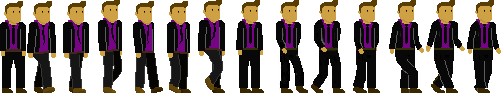
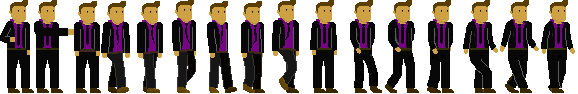
Enemies now chase player(very basic)

diff --git a/Mafia House - Electric Lemon Studios/Classes/Player.cpp b/Mafia House - Electric Lemon Studios/Classes/Player.cpp
@@ -102,15 +102,11 @@ void Player::walk(Input input) {
 	if (input == STOP) {
 		moveDirection = 0;
 		//run standing animation
-		setSpriteFrame(frameCache->getSpriteFrameByName("player/player.png"));
+		setSpriteFrame(standing.animation->getFrames().at(0)->getSpriteFrame());
 		stopActionByTag(WALK);
 		stopActionByTag(MOONWALK);
 		stopX();
 	}
-}
-
-void Player::setSpeed(float speed) {
-	getPhysicsBody()->setVelocityLimit(maxSpeed * speed);//max object speed
 }
 
 void Player::pickUpItem(Node* mainLayer) {
@@ -143,7 +139,7 @@ void Player::dropItem(Node* mainLayer) {
 void Player::beginUseItem() {
 	if (heldItem->getAttackType() == Item::STAB) {
 		heldItem->beginStab();
-		//setSpriteFrame(stabAnimation->getFrames[0]);//setting player sprite to first frame of stab animation
+		setSpriteFrame(stabbing.animation->getFrames().at(0)->getSpriteFrame());//setting player sprite to first frame of stab animation
 	}
 	else if (heldItem->getAttackType() == Item::SWING) {
 		heldItem->beginSwing();
@@ -155,6 +151,7 @@ void Player::useItem() {
 	heldItem->getPhysicsBody()->setEnabled(true);
 	if (heldItem->getAttackType() == Item::STAB) {
 		heldItem->stabSequence();
+		setSpriteFrame(stabbing.animation->getFrames().at(1)->getSpriteFrame());
 		//runAction(Animate::create(stabAnimation));//runs stabbing animation
 	}
 	else if (heldItem->getAttackType() == Item::SWING) {
@@ -254,6 +251,9 @@ Player::PlayerState* Player::PlayerState::update(Player* player, Node* mainLayer
 void Player::PlayerState::exit(Player* player, Node* mainLayer) {
 }
 
+void Player::NeutralState::enter(Player* player, Node* mainLayer, float time) {
+	player->setSpriteFrame(player->standing.animation->getFrames().at(0)->getSpriteFrame());
+}
 //Neutral State:
 Player::PlayerState* Player::NeutralState::handleInput(Player* player, Node* mainLayer, float time, Input input) {
 	if (input == USE_DOOR) {
@@ -318,6 +318,7 @@ Player::PlayerState* Player::AttackState::update(Player* player, Node* mainLayer
 		player->attackPrepareTime = -1.0f;
 	}
 	if (player->attackStartTime != -1.0f && time - player->attackStartTime >= player->heldItem->getAttackTime()) {
+		player->setSpriteFrame(player->stabbing.animation->getFrames().at(0)->getSpriteFrame());
 		player->heldItem->getPhysicsBody()->setEnabled(false);
 		player->attackEndTime = time;
 		player->attackStartTime = -1.0f;
@@ -332,6 +333,7 @@ Player::PlayerState* Player::AttackState::update(Player* player, Node* mainLayer
 Player::PlayerState* Player::AttackState::handleInput(Player* player, Node* mainLayer, float time, Input input) {
 	if ((player->attackRelease == false) && (input == MOVE_LEFT || input == MOVE_RIGHT || input == STOP)) {
 		player->walk(input);
+		player->setSpriteFrame(player->stabbing.animation->getFrames().at(0)->getSpriteFrame());
 	}
 	if (input == USE_RELEASE) {
 		player->attackRelease = true;

diff --git a/Mafia House - Electric Lemon Studios/Classes/Enemy.cpp b/Mafia House - Electric Lemon Studios/Classes/Enemy.cpp
@@ -41,6 +41,12 @@ void Enemy::walk(float time) {
 	}
 }
 
+void Enemy::chase(Node* target) {
+	Vec2 displacement = getPosition() - target->getPosition();
+	Vec2 moveDirection = displacement.getNormalized();
+
+	move(moveDirection * 8);
+}
 
 void Enemy::visionRays(vector<Vec2> *points, Vec2* start)
 {
@@ -95,4 +101,71 @@ void Enemy::visionRays(vector<Vec2> *points, Vec2* start)
 		}
 		didRun = false;
 	}
+}
+
+//Update Checking:
+void Enemy::update(Node* mainLayer, float time, Node* target) {
+	newState = state->update(this, mainLayer, time, target);
+	if (newState != NULL)
+	{
+		state->exit(this, mainLayer);
+
+		if (prevState != NULL && newState != prevState) { delete prevState; }
+		prevState = state;
+		state = newState;
+		newState = NULL;
+
+		state->enter(this, mainLayer, time);
+	}
+}
+
+//Enemy States
+void Enemy::State::enter(Enemy* enemy, Node* mainLayer, float time) {
+}
+Enemy::State* Enemy::State::update(Enemy* enemy, Node* mainLayer, float time, Node* target) {
+	return nullptr;
+}
+void Enemy::State::exit(Enemy* enemy, Node* mainLayer) {
+}
+
+//Default State
+void Enemy::DefaultState::enter(Enemy* enemy, Node* mainLayer, float time) {
+	enemy->setSpeed(1.0f);
+	enemy->setName("enemy");
+}
+Enemy::State* Enemy::DefaultState::update(Enemy* enemy, Node* mainLayer, float time, Node* target) {
+	//checking if enemy spotted player
+	if (enemy->seeingPlayer() == true) {
+		enemy->suspicionLevel += 10;
+	}
+	else {
+		enemy->suspicionLevel--;
+	}
+	//check if an enemy has become alerted
+	if (enemy->suspicionLevel >= 600) {
+		return new AlertState;
+	}
+	enemy->walk(time);
+	return nullptr;
+}
+
+//Alert State
+void Enemy::AlertState::enter(Enemy* enemy, Node* mainLayer, float time) {
+	enemy->setSpeed(1.9f);
+	enemy->setName("enemy_alert");
+}
+Enemy::State* Enemy::AlertState::update(Enemy* enemy, Node* mainLayer, float time, Node* target) {
+	//checking if enemy spotted player
+	if (enemy->seeingPlayer() == true) {
+		enemy->suspicionLevel+= 10;
+	}
+	else {
+		enemy->suspicionLevel--;
+	}
+	//check if an enemy has become unalerted
+	if (enemy->suspicionLevel <= 0) {
+		return new DefaultState;
+	}
+	enemy->chase(target);
+	return nullptr;
 }

diff --git a/Mafia House - Electric Lemon Studios/Classes/Level.cpp b/Mafia House - Electric Lemon Studios/Classes/Level.cpp
@@ -56,6 +56,10 @@ void Level::update(float deltaTime){
 	//updating time
 	gameTime += deltaTime;
 
+	if (player->caught == true){
+		resetLevel();
+	}
+
 	//for drawing vision rays
 	if (visionRays)
 	{
@@ -68,7 +72,7 @@ void Level::update(float deltaTime){
 	vector<Vec2> points;
 	Vec2 start;
 	for (int i = 0; i < enemies.size(); i++) {
-		if (enemyHit != -1) {
+		if (enemyHit != -1) {//temporary
 			if (enemies[i]->getTag() == enemyHit) {
 				//enemies[i]->kill();
 				mainLayer->removeChild(enemies[i]);
@@ -77,8 +81,6 @@ void Level::update(float deltaTime){
 				continue;
 			}
 		}
-		//enemies[i]->update(mainLayer, gameTime);
-		enemies[i]->walk(gameTime);
 		//enemy vision:
 		enemies[i]->visionRays(&points, &start);
 		//drawing vision rays
@@ -88,14 +90,7 @@ void Level::update(float deltaTime){
 		}
 		points.clear();
 
-		//checking if enemy spotted player
-		if (enemies[i]->seeingPlayer() == true) {
-			enemies[i]->suspicionLevel++;
-		}
-		//check if an enemy has become alerted
-		if (enemies[i]->suspicionLevel >= 100) {
-			resetLevel();
-		}
+		enemies[i]->update(mainLayer, gameTime, player);
 	}
 	addChild(visionRays);
 
@@ -190,6 +185,20 @@ bool Level::onContactPreSolve(PhysicsContact &contact, PhysicsContactPreSolve & 
 				//return true;
 				//solve.setRestitution(0.0f);
 				return false;
+			}
+			else {
+				CCLOG("YOU AVOIDED DETECTION");
+				return false;
+			}
+		}
+		// check if player has collided with an enemy
+		if ((a->getName() == "player" && b->getName() == "enemy_alert") || (a->getName() == "enemy_alert" && b->getName() == "player"))
+		{
+			if (player->hidden != true) {
+				CCLOG("YOU TOUCHED AN ENEMY");
+				player->caught = true;
+				solve.setRestitution(0.0f);
+				return true;
 			}
 			else {
 				CCLOG("YOU AVOIDED DETECTION");

diff --git a/Mafia House - Electric Lemon Studios/Classes/Player.h b/Mafia House - Electric Lemon Studios/Classes/Player.h
@@ -26,7 +26,7 @@ public:
 	~Player();
 	CREATE_SPRITE_FUNC(Player, "player.png");
 	CREATE_WITH_FRAME(Player);
-	CREATE_WITH_FRAME_NAME(Player, "player/player.png");
+	CREATE_WITH_FRAME_NAME(Player, "player/stand/001.png");
 	void initObject(Vec2 startPos = Vec2(0, 0));
 
 	void initAnimations();
@@ -41,7 +41,6 @@ public:
 	void resetActionChecks();//resets variables used to track what objects/items player will interact with/use
 
 	void walk(Input input);
-	void setSpeed(float speed);
 
 	void pickUpItem(Node* mainLayer);
 	void dropItem(Node* mainLayer);
@@ -67,6 +66,7 @@ public:
 	Item* heldItem = NULL;//for using held item
 
 	bool hidden = false;
+	bool caught = false;
 
 	enum Profile {
 		STAND,
@@ -85,6 +85,7 @@ private:
 
 	class NeutralState : public PlayerState {
 	public:
+		void enter(Player* player, Node* mainLayer, float time);
 		PlayerState* handleInput(Player* player, Node* MainLayer, float time, Input input);
 	};
 
@@ -116,12 +117,12 @@ private:
 	PlayerState* prevState = NULL;
 
 	//animations:
-	//GameAnimation standAnimation;
+	GameAnimation standing = GameAnimation(STAND, "player/stand/%03d.png", 1, 10 FRAMES);
 	GameAnimation walking = GameAnimation(WALK, "player/walk/%03d.png", 6, 10 FRAMES);
 	GameAnimation moonwalking = GameAnimation(MOONWALK, "player/walk2/%03d.png", 7, 8 FRAMES);
 	//GameAnimation crouchAnimation;
 	//GameAnimation crawlAnimation;
-	//GameAnimation stabAnimation;
+	GameAnimation stabbing = GameAnimation(WALK, "player/stab/%03d.png", 2, 10 FRAMES);;
 	//GameAnimation swingAnimation;
 	//GameAnimation readyThrowAnimation;
 	//GameAnimation throwAnimation;

diff --git a/Mafia House - Electric Lemon Studios/Classes/Enemy.h b/Mafia House - Electric Lemon Studios/Classes/Enemy.h
@@ -11,15 +11,43 @@ public:
 
 	void initObject(Vec2 startPos = Vec2(0,0));
 
+	void update(Node* mainLayer, float time, Node* target);
+
 	void walk(float time);
+
+	void chase(Node* target);
 
 	void visionRays(vector<Vec2> *points, Vec2* start);//casts a bunch of rays; the enemies vision cone
 
 	bool seeingPlayer() { return playerInVision; }
 
-	int suspicionLevel = 0;//100 is max
+	int suspicionLevel = 0;//1000 is max
 
 protected:
+	class State {
+	public:
+		virtual ~State() {}
+		virtual void enter(Enemy* enemy, Node* mainLayer, float time);
+		virtual State* update(Enemy* enemy, Node* mainLayer, float time, Node* target);
+		virtual void exit(Enemy* enemy, Node* mainLayer);
+	};
+	class DefaultState : public State {
+	public:
+		void enter(Enemy* enemy, Node* mainLayer, float time);
+		State* update(Enemy* enemy, Node* mainLayer, float time, Node* target);
+		//void exit(Enemy* enemy, Node* mainLayer);
+	};
+	class AlertState : public State {
+	public:
+		void enter(Enemy* enemy, Node* mainLayer, float time);
+		State * update(Enemy* enemy, Node* mainLayer, float time, Node* target);
+		//void exit(Enemy* enemy, Node* mainLayer);
+	};
+
+	State* state = new DefaultState;
+	State* newState = NULL;
+	State* prevState = NULL;
+
 	//Stuff for Vision Fields:
 	bool didRun;
 	int visionDegrees = 65;//width of angle of vision

diff --git a/Mafia House - Electric Lemon Studios/Classes/Item.cpp b/Mafia House - Electric Lemon Studios/Classes/Item.cpp
@@ -76,7 +76,8 @@ void Item::initDroppedItem(Vec2 pos, bool flip) {
 }
 
 void Item::beginStab() {
-	setPosition(Vec2(10, 45));
+	setPosition(Vec2(10, 55));
+	this->setRotation(45);
 	//auto prepare = MoveBy::create(5 FRAMES, Vec2(-12, 6));
 	//runAction(prepare);
 }
@@ -90,9 +91,9 @@ void Item::beginSwing() {
 }
 
 void Item::stabSequence() {
-	auto move = MoveBy::create(1 FRAMES, Vec2(25, 0));
+	auto move = MoveBy::create(1 FRAMES, Vec2(25, 6));
 	auto hold = MoveBy::create(6 FRAMES, Vec2(0, 0));
-	auto moveback = MoveBy::create(1 FRAMES, Vec2(-25, 0));
+	auto moveback = MoveBy::create(1 FRAMES, Vec2(-25, -6));
 	auto sequence = Sequence::create(move, hold, moveback, NULL);
 	runAction(sequence);
 }

diff --git a/Mafia House - Electric Lemon Studios/Classes/GameObject.cpp b/Mafia House - Electric Lemon Studios/Classes/GameObject.cpp
@@ -111,6 +111,10 @@ void GameObject::moveAbsolute(Vec2 velocity) {//positive values will always move
 	getPhysicsBody()->applyImpulse(force);
 }
 
+void GameObject::setSpeed(float speed) {
+	getPhysicsBody()->setVelocityLimit(maxSpeed * speed);//max object speed
+}
+
 void GameObject::flipX() {
 	setScaleX(getScaleX() * -1);//flips sprite and it's children by inverting x scale
 	if (flippedX == false) {

diff --git a/Mafia House - Electric Lemon Studios/Classes/GameObject.h b/Mafia House - Electric Lemon Studios/Classes/GameObject.h
@@ -79,6 +79,8 @@ public:
 	void move(Vec2 velocity);//moves relative to direction object is facing
 	void moveAbsolute(Vec2 velocity);//moves in absolute direction, positive is right, up
 
+	void setSpeed(float speed);
+
 	void flipX();//flips object on X-axis
 
 	Vec2 roomStartPos = Vec2(0, 0);//position object starts in relative to room position
